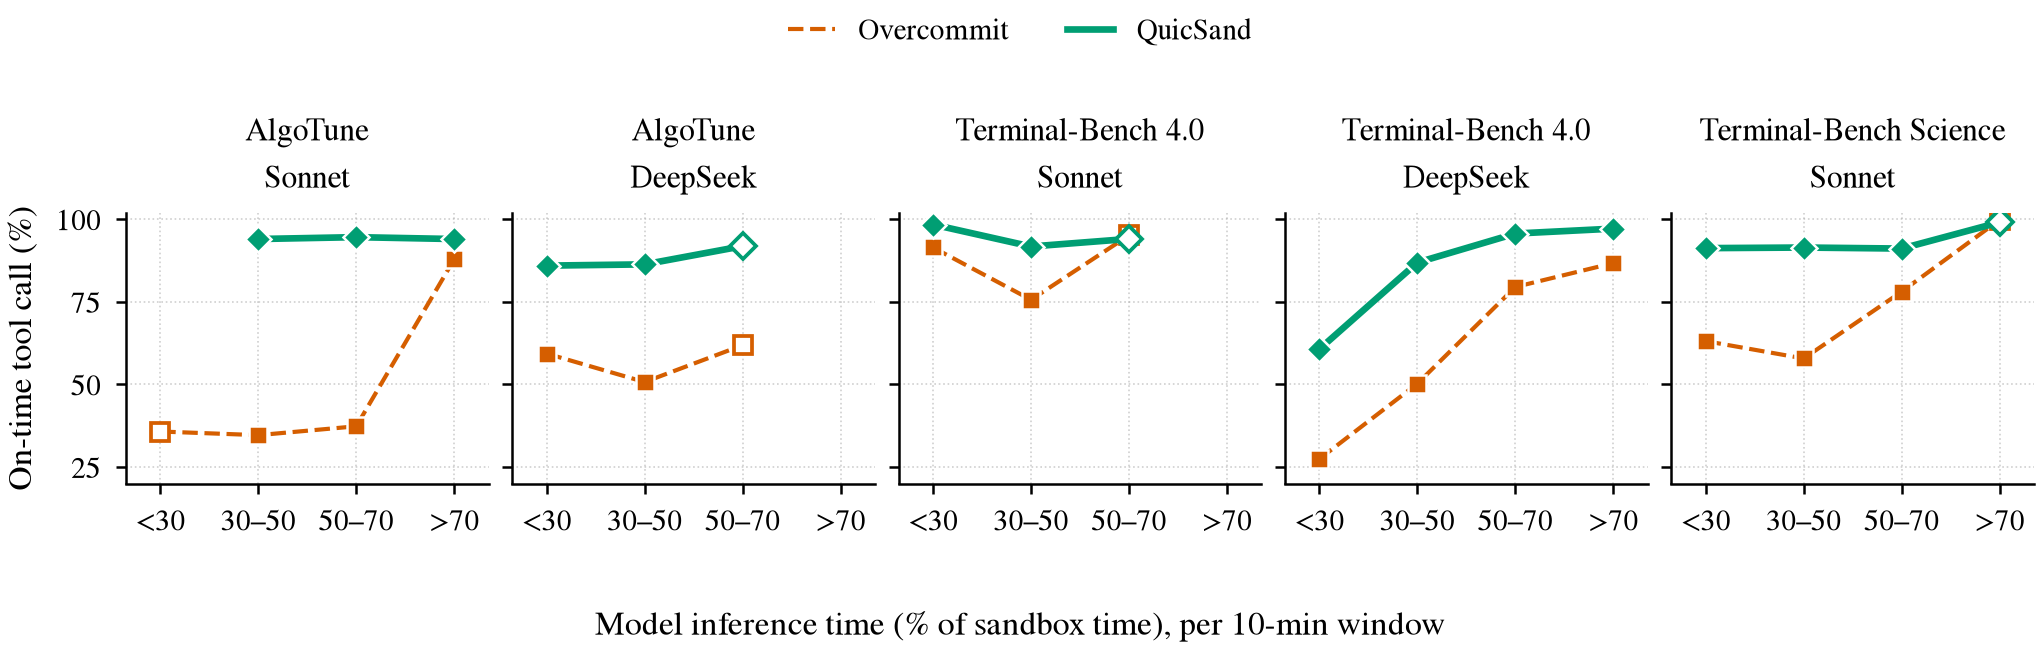
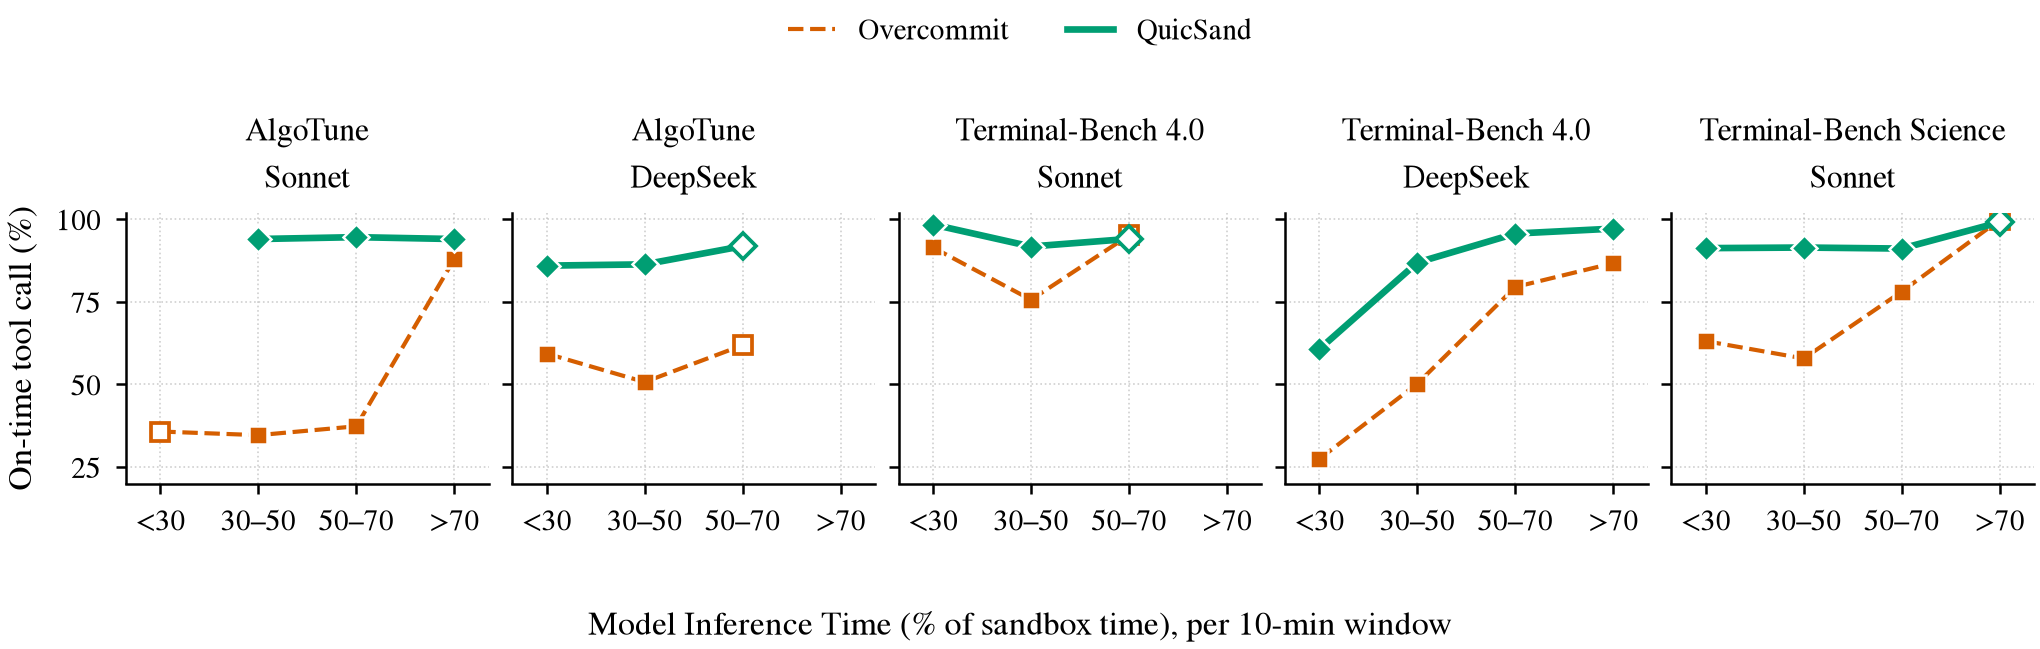
Label x-axis Model Inference Time
Claude-Session: https://claude.ai/code/session_01LLCmu6CwS5SzLK4VfrzjhT

Changed region(s): [[0.2779, 0.9245, 0.7103, 0.9861]]

diff --git a/scripts/plot_share.py b/scripts/plot_share.py
@@ -34,8 +34,8 @@ PANELS = [("algotune/run4-max-50", "AlgoTune\nSonnet"), ("algotune/run1-deepseek
 # call (1 s floor). Inference share: per 10-minute window, sandbox-time spent waiting on a model
 # response over sandbox-time resident.
 Y_LABEL = "On-time tool call (%)"
-X_LABEL = "Model inference time (% of sandbox time), per 10-min window"
-X_LABEL_SHORT = "Model inference time (% of sandbox time),\nper 10-min window"
+X_LABEL = "Model Inference Time (% of sandbox time), per 10-min window"
+X_LABEL_SHORT = "Model Inference Time (% of sandbox time),\nper 10-min window"
 
 
 def family(run: str) -> str:

diff --git a/README.md b/README.md
@@ -7,13 +7,13 @@ Code, data and figures behind Appendix B of the QuicSand paper ("Sensitivity to 
 Existing TapeBox replay runs are cut into 10-minute windows. For each window we record:
 
 - **On-time tool call (%)**: the share of judged tool calls whose execution time (proxy holds excluded) is at most 1.10x the slowest of five uncontended strict-reservation reruns of the same call, with reference times floored at 1 s.
-- **Model inference time (% of sandbox time)** (`inference_share`, the x-axis of the figures): time spent between a model request and its last response byte, divided by resident sandbox time, per 10-minute window.
+- **Model Inference Time (% of sandbox time)** (`inference_share`, the x-axis of the figures): time spent between a model request and its last response byte, divided by resident sandbox time, per 10-minute window.
 
 Windows with fewer than 20 judged tool calls are dropped. We compare QuicSand (`quicksand-v6` and `quicksand-v7` pooled) with `overcommit-1.0`, shown as "Overcommit".
 
 ## Results
 
-| Model inference time (% of sandbox time) | Overcommit | QuicSand |
+| Model Inference Time (% of sandbox time) | Overcommit | QuicSand |
 |---|---|---|
 | < 30% | 37% | 85% |
 | 30–50% | 58% | 88% |
@@ -22,7 +22,7 @@ Windows with fewer than 20 judged tool calls are dropped. We compare QuicSand (`
 
 On-time tool calls (%), pooled over AlgoTune, Terminal-Bench 4.0 (Sonnet and DeepSeek) and Terminal-Bench Science. Overcommit loses on-time calls as fewer sandboxes are waiting on the model; QuicSand stays at 85–96%.
 
-![On-time tool call (%) against model inference time](figures/on_time_vs_inference_share.png)
+![On-time tool call (%) against Model Inference Time](figures/on_time_vs_inference_share.png)
 
 Per workload (hollow markers: fewer than three 10-minute windows in the bin):
 
